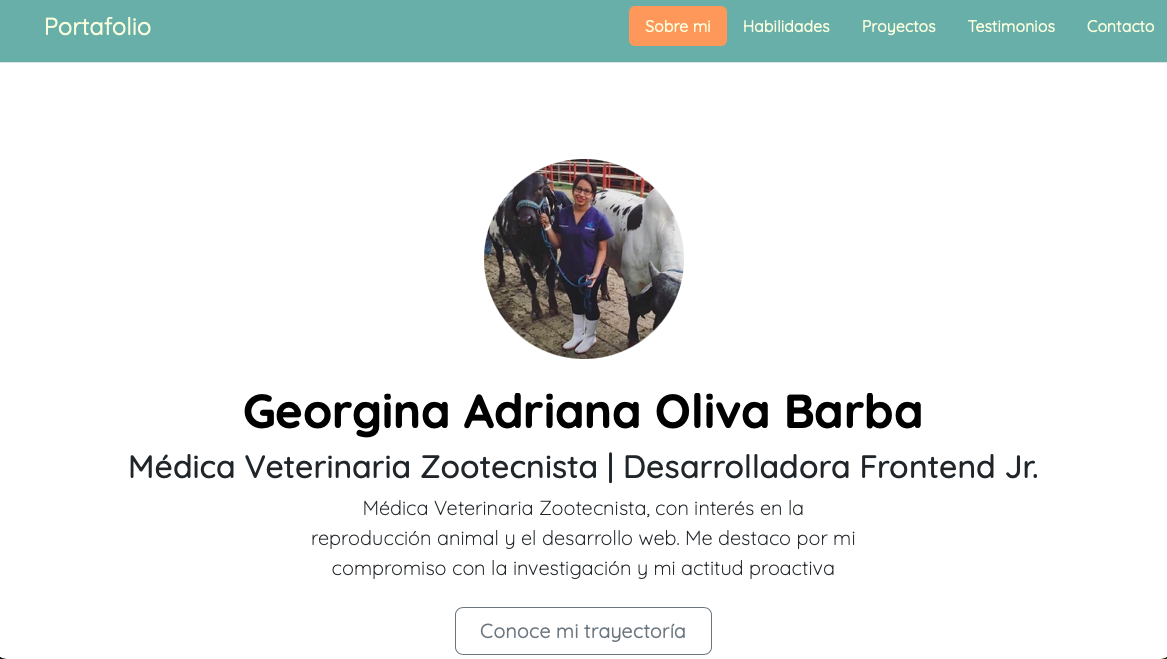
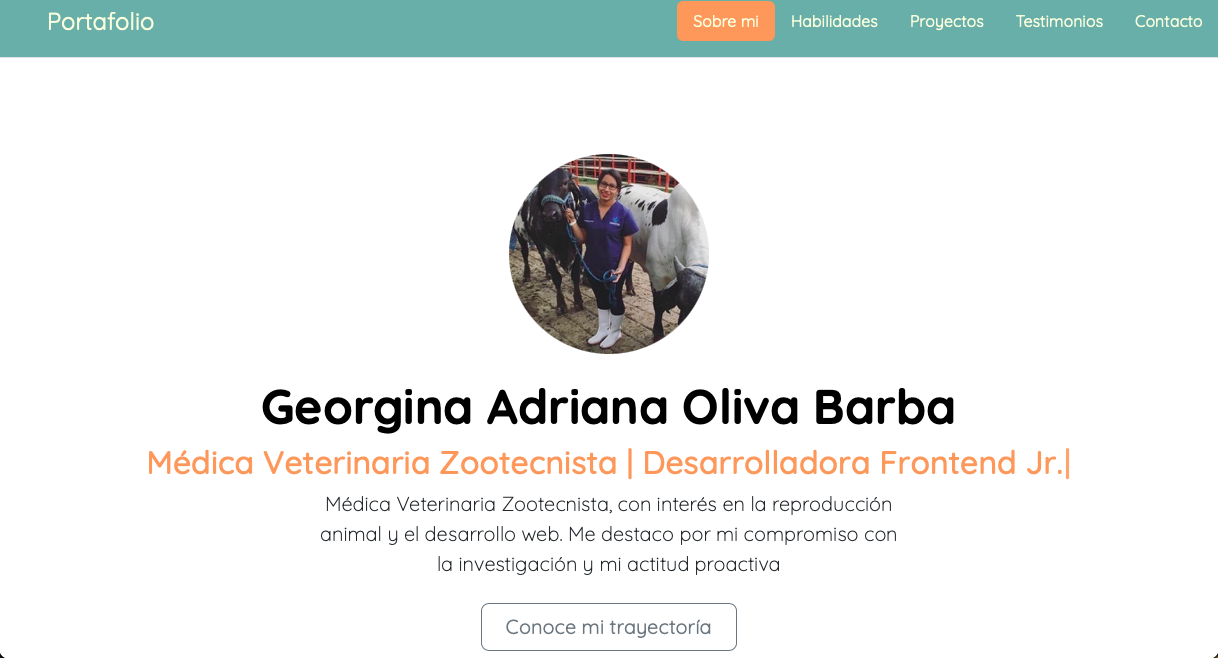
Agregar JS

diff --git a/index.html b/index.html
@@ -46,7 +46,7 @@
             <div class="px-4 py-5 my-5 text-center">
                 <img class="d-block mx-auto mb-4 rounded-circle" src="/assets/1.jpg" alt="Foto" width=200>
                 <h1 class="display-5 fw-bold text-body-emphasis">Georgina Adriana Oliva Barba</h1>
-                <h2>Médica Veterinaria Zootecnista | Desarrolladora Frontend Jr.</h2>
+                <h2 id="app"></h2>
                 <div class="col-lg-6 mx-auto">
                     <p class="lead mb-4">Médica Veterinaria Zootecnista, con interés en la reproducción animal y el
                         desarrollo web. Me destaco por mi compromiso con la investigación y mi actitud proactiva </p>
@@ -239,6 +239,10 @@
         </ul>
         <p class="text-center">Creado por <em>Georgina Adriana Oliva Barba</em> en el bootcamp de <a href="https://tecnolochicas.mx" target="_blank">Tecnolochicas PRO</a></p>
     </footer>
+    <!--Typewriter JS-->
+    <script src="https://unpkg.com/typewriter-effect@latest/dist/core.js"></script>
+    <!--JS-->
+    <script src="main.js"></script>
     <!--Script Bootstrap siempre es mejor al final del código-->
     <script src="https://cdn.jsdelivr.net/npm/bootstrap@5.3.3/dist/js/bootstrap.bundle.min.js"
         integrity="sha384-YvpcrYf0tY3lHB60NNkmXc5s9fDVZLESaAA55NDzOxhy9GkcIdslK1eN7N6jIeHz"

diff --git a/main.js b/main.js
@@ -1,0 +1,17 @@
+// Prueba de que funciona poner: console.log("Hola mundo! desde la consola");
+//Texto en movimiento como si se escribiera
+var app = document.getElementById('app');
+
+var typewriter = new Typewriter(app, {
+    loop: true
+});
+
+    typewriter.typeString('Médica Veterinaria Zootecnista | Desarrolladora Frontend Jr.')
+    .pauseFor(2500)
+    .deleteAll()
+    .typeString('¡Si lo puedes imaginar, lo puedes crear!')
+    .pauseFor(2500)
+    .deleteChars(6)
+    .typeString('<strong>programar!</strong>')
+    .pauseFor(2500)
+    .start();

diff --git a/style.css b/style.css
@@ -44,3 +44,6 @@ footer .icon-footer i{
 footer p a {
     color: #78ABA8;
 }
+#app{
+    color: #EF9C66;
+}

diff --git a/README.md b/README.md
@@ -7,7 +7,7 @@ El propósito de está página web es crear mi primera versión de portafolio de
 
 Podrás encontrarlo aquí [Portafolio](https://adrianaolivabarba.github.io).
 
-### Tecnologías
+### Tecnologías:
 
 * HTML
 * CSS
@@ -21,5 +21,5 @@ Podrás encontrarlo aquí [Portafolio](https://adrianaolivabarba.github.io).
 * Proyectos
 * Contacto
 
-### Captura del proyecto
+### Captura del proyecto:
 ![Captura del proyecto](/assets/ssportafolio.png)
